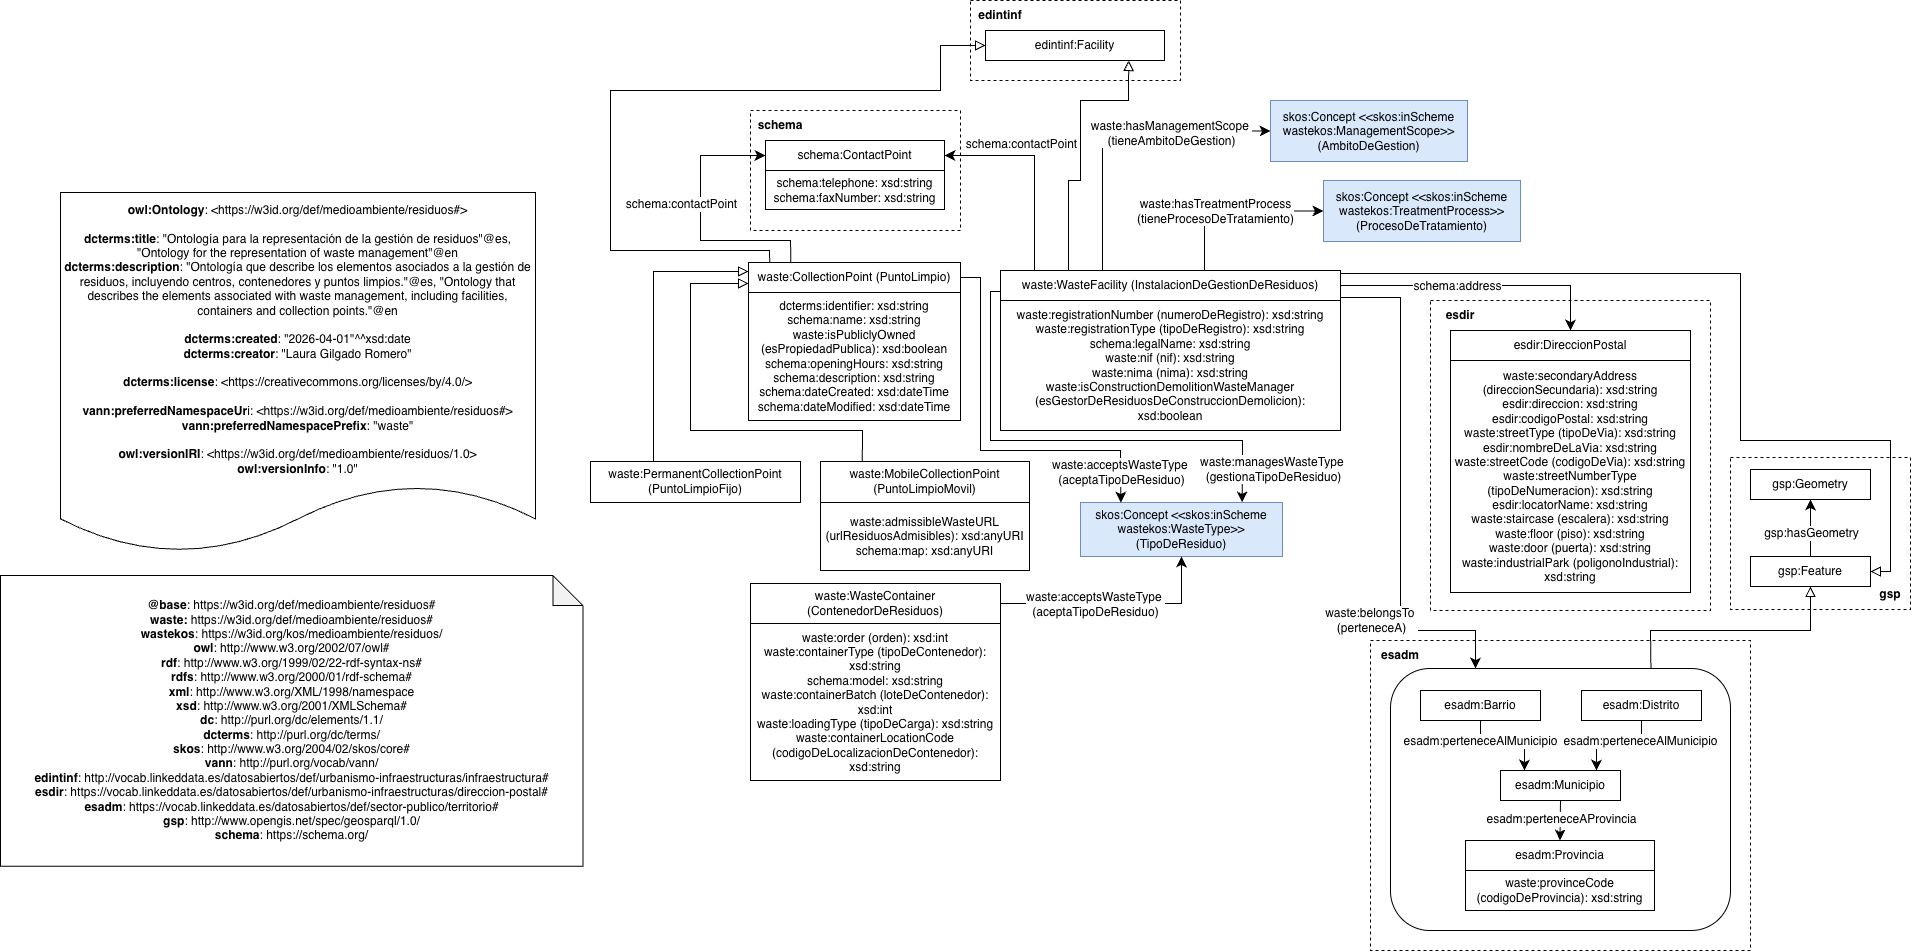
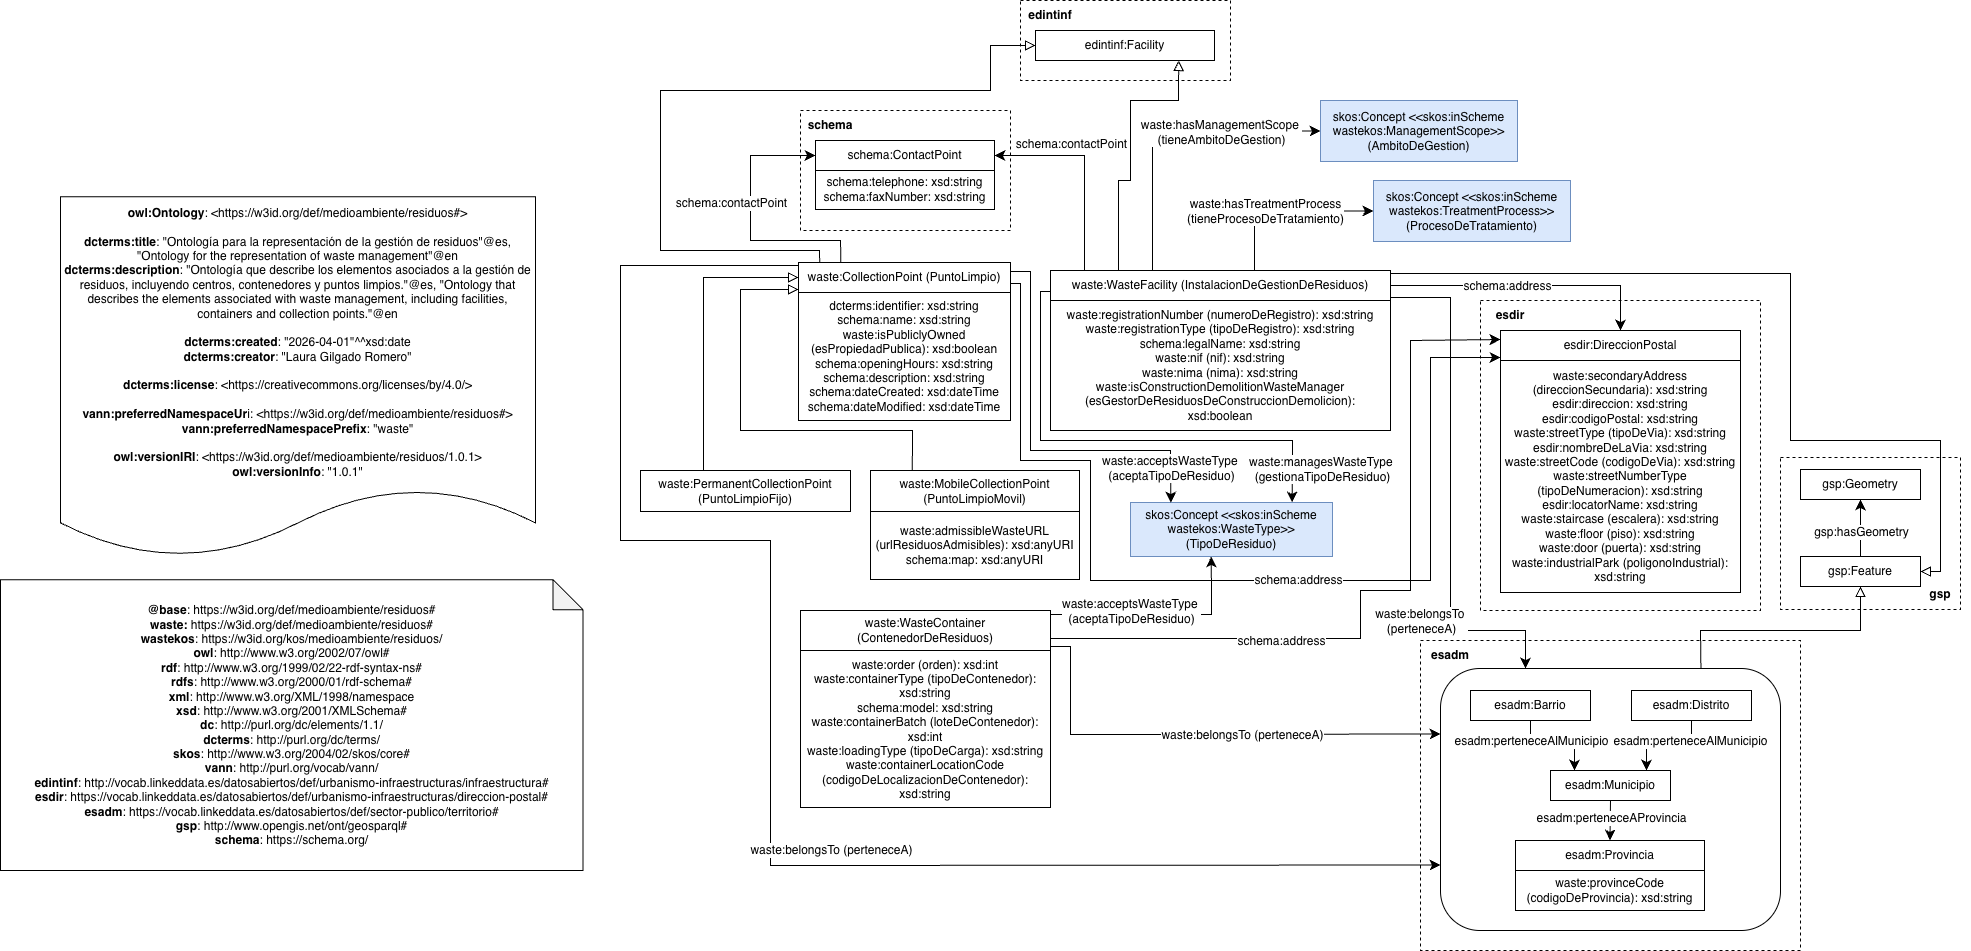
Actualización del diagrama conceptual

diff --git a/documentation/sections/crossref-es.html b/documentation/sections/crossref-es.html
@@ -64,7 +64,7 @@ Esta secci&oacute;n introduce m&aacute;s detalles sobre cada clase y propiedad d
     en dominio de
    </dt>
    <dd>
-    <a href="#acceptsWasteType" title="https://w3id.org/def/medioambiente/residuos#acceptsWasteType">accepts waste type</a> <sup class="type-op" title="Propiedad entre objetos">op</sup>, <a href="#https://schema.org/contactPoint" title="https://schema.org/contactPoint">contact point</a> <sup class="type-op" title="Propiedad entre objetos">op</sup>, <a href="#https://schema.org/dateCreated" title="https://schema.org/dateCreated">date created</a> <sup class="type-dp" title="Propiedad de datos">dp</sup>, <a href="#https://schema.org/dateModified" title="https://schema.org/dateModified">date modified</a> <sup class="type-dp" title="Propiedad de datos">dp</sup>, <a href="#https://schema.org/description" title="https://schema.org/description">description</a> <sup class="type-dp" title="Propiedad de datos">dp</sup>, <a href="#http://purl.org/dc/terms/identifier" title="http://purl.org/dc/terms/identifier">identifier</a> <sup class="type-dp" title="Propiedad de datos">dp</sup>, <a href="#isPubliclyOwned" title="https://w3id.org/def/medioambiente/residuos#isPubliclyOwned">is publicly owned</a> <sup class="type-dp" title="Propiedad de datos">dp</sup>, <a href="#https://schema.org/name" title="https://schema.org/name">name</a> <sup class="type-dp" title="Propiedad de datos">dp</sup>, <a href="#https://schema.org/openingHours" title="https://schema.org/openingHours">opening hours</a> <sup class="type-dp" title="Propiedad de datos">dp</sup>
+    <a href="#acceptsWasteType" title="https://w3id.org/def/medioambiente/residuos#acceptsWasteType">accepts waste type</a> <sup class="type-op" title="Propiedad entre objetos">op</sup>, <a href="#https://schema.org/address" title="https://schema.org/address">address</a> <sup class="type-op" title="Propiedad entre objetos">op</sup>, <a href="#belongsTo" title="https://w3id.org/def/medioambiente/residuos#belongsTo">belongs to</a> <sup class="type-op" title="Propiedad entre objetos">op</sup>, <a href="#https://schema.org/contactPoint" title="https://schema.org/contactPoint">contact point</a> <sup class="type-op" title="Propiedad entre objetos">op</sup>, <a href="#https://schema.org/dateCreated" title="https://schema.org/dateCreated">date created</a> <sup class="type-dp" title="Propiedad de datos">dp</sup>, <a href="#https://schema.org/dateModified" title="https://schema.org/dateModified">date modified</a> <sup class="type-dp" title="Propiedad de datos">dp</sup>, <a href="#https://schema.org/description" title="https://schema.org/description">description</a> <sup class="type-dp" title="Propiedad de datos">dp</sup>, <a href="#http://purl.org/dc/terms/identifier" title="http://purl.org/dc/terms/identifier">identifier</a> <sup class="type-dp" title="Propiedad de datos">dp</sup>, <a href="#isPubliclyOwned" title="https://w3id.org/def/medioambiente/residuos#isPubliclyOwned">is publicly owned</a> <sup class="type-dp" title="Propiedad de datos">dp</sup>, <a href="#https://schema.org/name" title="https://schema.org/name">name</a> <sup class="type-dp" title="Propiedad de datos">dp</sup>, <a href="#https://schema.org/openingHours" title="https://schema.org/openingHours">opening hours</a> <sup class="type-dp" title="Propiedad de datos">dp</sup>
    </dd>
   </dl>
  </div>
@@ -244,7 +244,7 @@ Esta secci&oacute;n introduce m&aacute;s detalles sobre cada clase y propiedad d
     en rango de
    </dt>
    <dd>
-    <a href="#https://vocab.linkeddata.es/datosabiertos/def/sector-publico/territorio#perteneceAlMunicipio" title="https://vocab.linkeddata.es/datosabiertos/def/sector-publico/territorio#perteneceAlMunicipio">pertenece al municipio</a> <sup class="type-op" title="Propiedad entre objetos">op</sup>
+    <a href="#belongsTo" title="https://w3id.org/def/medioambiente/residuos#belongsTo">belongs to</a> <sup class="type-op" title="Propiedad entre objetos">op</sup>, <a href="#https://vocab.linkeddata.es/datosabiertos/def/sector-publico/territorio#perteneceAlMunicipio" title="https://vocab.linkeddata.es/datosabiertos/def/sector-publico/territorio#perteneceAlMunicipio">pertenece al municipio</a> <sup class="type-op" title="Propiedad entre objetos">op</sup>
    </dd>
   </dl>
  </div>
@@ -292,7 +292,7 @@ Esta secci&oacute;n introduce m&aacute;s detalles sobre cada clase y propiedad d
     en dominio de
    </dt>
    <dd>
-    <a href="#acceptsWasteType" title="https://w3id.org/def/medioambiente/residuos#acceptsWasteType">accepts waste type</a> <sup class="type-op" title="Propiedad entre objetos">op</sup>, <a href="#containerBatch" title="https://w3id.org/def/medioambiente/residuos#containerBatch">container batch</a> <sup class="type-dp" title="Propiedad de datos">dp</sup>, <a href="#containerLocationCode" title="https://w3id.org/def/medioambiente/residuos#containerLocationCode">container location code</a> <sup class="type-dp" title="Propiedad de datos">dp</sup>, <a href="#containerType" title="https://w3id.org/def/medioambiente/residuos#containerType">container type</a> <sup class="type-dp" title="Propiedad de datos">dp</sup>, <a href="#loadingType" title="https://w3id.org/def/medioambiente/residuos#loadingType">loading type</a> <sup class="type-dp" title="Propiedad de datos">dp</sup>, <a href="#https://schema.org/model" title="https://schema.org/model">model</a> <sup class="type-dp" title="Propiedad de datos">dp</sup>, <a href="#order" title="https://w3id.org/def/medioambiente/residuos#order">order</a> <sup class="type-dp" title="Propiedad de datos">dp</sup>
+    <a href="#acceptsWasteType" title="https://w3id.org/def/medioambiente/residuos#acceptsWasteType">accepts waste type</a> <sup class="type-op" title="Propiedad entre objetos">op</sup>, <a href="#https://schema.org/address" title="https://schema.org/address">address</a> <sup class="type-op" title="Propiedad entre objetos">op</sup>, <a href="#belongsTo" title="https://w3id.org/def/medioambiente/residuos#belongsTo">belongs to</a> <sup class="type-op" title="Propiedad entre objetos">op</sup>, <a href="#containerBatch" title="https://w3id.org/def/medioambiente/residuos#containerBatch">container batch</a> <sup class="type-dp" title="Propiedad de datos">dp</sup>, <a href="#containerLocationCode" title="https://w3id.org/def/medioambiente/residuos#containerLocationCode">container location code</a> <sup class="type-dp" title="Propiedad de datos">dp</sup>, <a href="#containerType" title="https://w3id.org/def/medioambiente/residuos#containerType">container type</a> <sup class="type-dp" title="Propiedad de datos">dp</sup>, <a href="#loadingType" title="https://w3id.org/def/medioambiente/residuos#loadingType">loading type</a> <sup class="type-dp" title="Propiedad de datos">dp</sup>, <a href="#https://schema.org/model" title="https://schema.org/model">model</a> <sup class="type-dp" title="Propiedad de datos">dp</sup>, <a href="#order" title="https://w3id.org/def/medioambiente/residuos#order">order</a> <sup class="type-dp" title="Propiedad de datos">dp</sup>
    </dd>
   </dl>
  </div>
@@ -361,6 +361,12 @@ Esta secci&oacute;n introduce m&aacute;s detalles sobre cada clase y propiedad d
      dominio
     </dt>
     <dd>
+     <a href="#CollectionPoint" title="https://w3id.org/def/medioambiente/residuos#CollectionPoint">Collection Point</a> <sup class="type-c" title="clase">c</sup>
+    </dd>
+    <dd>
+     <a href="#WasteContainer" title="https://w3id.org/def/medioambiente/residuos#WasteContainer">Waste Container</a> <sup class="type-c" title="clase">c</sup>
+    </dd>
+    <dd>
      <a href="#WasteFacility" title="https://w3id.org/def/medioambiente/residuos#WasteFacility">Waste Facility</a> <sup class="type-c" title="clase">c</sup>
     </dd>
     <dt>
@@ -381,13 +387,19 @@ Esta secci&oacute;n introduce m&aacute;s detalles sobre cada clase y propiedad d
      dominio
     </dt>
     <dd>
+     <a href="#CollectionPoint" title="https://w3id.org/def/medioambiente/residuos#CollectionPoint">Collection Point</a> <sup class="type-c" title="clase">c</sup>
+    </dd>
+    <dd>
+     <a href="#WasteContainer" title="https://w3id.org/def/medioambiente/residuos#WasteContainer">Waste Container</a> <sup class="type-c" title="clase">c</sup>
+    </dd>
+    <dd>
      <a href="#WasteFacility" title="https://w3id.org/def/medioambiente/residuos#WasteFacility">Waste Facility</a> <sup class="type-c" title="clase">c</sup>
     </dd>
     <dt>
      rango
     </dt>
     <dd>
-     <a href="#https://vocab.linkeddata.es/datosabiertos/def/sector-publico/territorio#Barrio" title="https://vocab.linkeddata.es/datosabiertos/def/sector-publico/territorio#Barrio">Barrio</a> <sup class="type-c" title="clase">c</sup> <span class="logic">or</span> <a href="#https://vocab.linkeddata.es/datosabiertos/def/sector-publico/territorio#Distrito" title="https://vocab.linkeddata.es/datosabiertos/def/sector-publico/territorio#Distrito">Distrito</a> <sup class="type-c" title="clase">c</sup>
+     <a href="#https://vocab.linkeddata.es/datosabiertos/def/sector-publico/territorio#Barrio" title="https://vocab.linkeddata.es/datosabiertos/def/sector-publico/territorio#Barrio">Barrio</a> <sup class="type-c" title="clase">c</sup> <span class="logic">or</span> <a href="#https://vocab.linkeddata.es/datosabiertos/def/sector-publico/territorio#Distrito" title="https://vocab.linkeddata.es/datosabiertos/def/sector-publico/territorio#Distrito">Distrito</a> <sup class="type-c" title="clase">c</sup> <span class="logic">or</span> <a href="#https://vocab.linkeddata.es/datosabiertos/def/sector-publico/territorio#Municipio" title="https://vocab.linkeddata.es/datosabiertos/def/sector-publico/territorio#Municipio">Municipio</a> <sup class="type-c" title="clase">c</sup>
     </dd>
    </dl>
   </div>

diff --git a/documentation/sections/crossref-en.html b/documentation/sections/crossref-en.html
@@ -64,7 +64,7 @@ This section provides details for each class and property defined by Ontology fo
     is in domain of
    </dt>
    <dd>
-    <a href="#acceptsWasteType" title="https://w3id.org/def/medioambiente/residuos#acceptsWasteType">accepts waste type</a> <sup class="type-op" title="object property">op</sup>, <a href="#https://schema.org/contactPoint" title="https://schema.org/contactPoint">contact point</a> <sup class="type-op" title="object property">op</sup>, <a href="#https://schema.org/dateCreated" title="https://schema.org/dateCreated">date created</a> <sup class="type-dp" title="data property">dp</sup>, <a href="#https://schema.org/dateModified" title="https://schema.org/dateModified">date modified</a> <sup class="type-dp" title="data property">dp</sup>, <a href="#https://schema.org/description" title="https://schema.org/description">description</a> <sup class="type-dp" title="data property">dp</sup>, <a href="#http://purl.org/dc/terms/identifier" title="http://purl.org/dc/terms/identifier">identifier</a> <sup class="type-dp" title="data property">dp</sup>, <a href="#isPubliclyOwned" title="https://w3id.org/def/medioambiente/residuos#isPubliclyOwned">is publicly owned</a> <sup class="type-dp" title="data property">dp</sup>, <a href="#https://schema.org/name" title="https://schema.org/name">name</a> <sup class="type-dp" title="data property">dp</sup>, <a href="#https://schema.org/openingHours" title="https://schema.org/openingHours">opening hours</a> <sup class="type-dp" title="data property">dp</sup>
+    <a href="#acceptsWasteType" title="https://w3id.org/def/medioambiente/residuos#acceptsWasteType">accepts waste type</a> <sup class="type-op" title="object property">op</sup>, <a href="#https://schema.org/address" title="https://schema.org/address">address</a> <sup class="type-op" title="object property">op</sup>, <a href="#belongsTo" title="https://w3id.org/def/medioambiente/residuos#belongsTo">belongs to</a> <sup class="type-op" title="object property">op</sup>, <a href="#https://schema.org/contactPoint" title="https://schema.org/contactPoint">contact point</a> <sup class="type-op" title="object property">op</sup>, <a href="#https://schema.org/dateCreated" title="https://schema.org/dateCreated">date created</a> <sup class="type-dp" title="data property">dp</sup>, <a href="#https://schema.org/dateModified" title="https://schema.org/dateModified">date modified</a> <sup class="type-dp" title="data property">dp</sup>, <a href="#https://schema.org/description" title="https://schema.org/description">description</a> <sup class="type-dp" title="data property">dp</sup>, <a href="#http://purl.org/dc/terms/identifier" title="http://purl.org/dc/terms/identifier">identifier</a> <sup class="type-dp" title="data property">dp</sup>, <a href="#isPubliclyOwned" title="https://w3id.org/def/medioambiente/residuos#isPubliclyOwned">is publicly owned</a> <sup class="type-dp" title="data property">dp</sup>, <a href="#https://schema.org/name" title="https://schema.org/name">name</a> <sup class="type-dp" title="data property">dp</sup>, <a href="#https://schema.org/openingHours" title="https://schema.org/openingHours">opening hours</a> <sup class="type-dp" title="data property">dp</sup>
    </dd>
   </dl>
  </div>
@@ -244,7 +244,7 @@ This section provides details for each class and property defined by Ontology fo
     is in range of
    </dt>
    <dd>
-    <a href="#https://vocab.linkeddata.es/datosabiertos/def/sector-publico/territorio#perteneceAlMunicipio" title="https://vocab.linkeddata.es/datosabiertos/def/sector-publico/territorio#perteneceAlMunicipio">pertenece al municipio</a> <sup class="type-op" title="object property">op</sup>
+    <a href="#belongsTo" title="https://w3id.org/def/medioambiente/residuos#belongsTo">belongs to</a> <sup class="type-op" title="object property">op</sup>, <a href="#https://vocab.linkeddata.es/datosabiertos/def/sector-publico/territorio#perteneceAlMunicipio" title="https://vocab.linkeddata.es/datosabiertos/def/sector-publico/territorio#perteneceAlMunicipio">pertenece al municipio</a> <sup class="type-op" title="object property">op</sup>
    </dd>
   </dl>
  </div>
@@ -292,7 +292,7 @@ This section provides details for each class and property defined by Ontology fo
     is in domain of
    </dt>
    <dd>
-    <a href="#acceptsWasteType" title="https://w3id.org/def/medioambiente/residuos#acceptsWasteType">accepts waste type</a> <sup class="type-op" title="object property">op</sup>, <a href="#containerBatch" title="https://w3id.org/def/medioambiente/residuos#containerBatch">container batch</a> <sup class="type-dp" title="data property">dp</sup>, <a href="#containerLocationCode" title="https://w3id.org/def/medioambiente/residuos#containerLocationCode">container location code</a> <sup class="type-dp" title="data property">dp</sup>, <a href="#containerType" title="https://w3id.org/def/medioambiente/residuos#containerType">container type</a> <sup class="type-dp" title="data property">dp</sup>, <a href="#loadingType" title="https://w3id.org/def/medioambiente/residuos#loadingType">loading type</a> <sup class="type-dp" title="data property">dp</sup>, <a href="#https://schema.org/model" title="https://schema.org/model">model</a> <sup class="type-dp" title="data property">dp</sup>, <a href="#order" title="https://w3id.org/def/medioambiente/residuos#order">order</a> <sup class="type-dp" title="data property">dp</sup>
+    <a href="#acceptsWasteType" title="https://w3id.org/def/medioambiente/residuos#acceptsWasteType">accepts waste type</a> <sup class="type-op" title="object property">op</sup>, <a href="#https://schema.org/address" title="https://schema.org/address">address</a> <sup class="type-op" title="object property">op</sup>, <a href="#belongsTo" title="https://w3id.org/def/medioambiente/residuos#belongsTo">belongs to</a> <sup class="type-op" title="object property">op</sup>, <a href="#containerBatch" title="https://w3id.org/def/medioambiente/residuos#containerBatch">container batch</a> <sup class="type-dp" title="data property">dp</sup>, <a href="#containerLocationCode" title="https://w3id.org/def/medioambiente/residuos#containerLocationCode">container location code</a> <sup class="type-dp" title="data property">dp</sup>, <a href="#containerType" title="https://w3id.org/def/medioambiente/residuos#containerType">container type</a> <sup class="type-dp" title="data property">dp</sup>, <a href="#loadingType" title="https://w3id.org/def/medioambiente/residuos#loadingType">loading type</a> <sup class="type-dp" title="data property">dp</sup>, <a href="#https://schema.org/model" title="https://schema.org/model">model</a> <sup class="type-dp" title="data property">dp</sup>, <a href="#order" title="https://w3id.org/def/medioambiente/residuos#order">order</a> <sup class="type-dp" title="data property">dp</sup>
    </dd>
   </dl>
  </div>
@@ -361,6 +361,12 @@ This section provides details for each class and property defined by Ontology fo
      has domain
     </dt>
     <dd>
+     <a href="#CollectionPoint" title="https://w3id.org/def/medioambiente/residuos#CollectionPoint">Collection Point</a> <sup class="type-c" title="class">c</sup>
+    </dd>
+    <dd>
+     <a href="#WasteContainer" title="https://w3id.org/def/medioambiente/residuos#WasteContainer">Waste Container</a> <sup class="type-c" title="class">c</sup>
+    </dd>
+    <dd>
      <a href="#WasteFacility" title="https://w3id.org/def/medioambiente/residuos#WasteFacility">Waste Facility</a> <sup class="type-c" title="class">c</sup>
     </dd>
     <dt>
@@ -381,13 +387,19 @@ This section provides details for each class and property defined by Ontology fo
      has domain
     </dt>
     <dd>
+     <a href="#CollectionPoint" title="https://w3id.org/def/medioambiente/residuos#CollectionPoint">Collection Point</a> <sup class="type-c" title="class">c</sup>
+    </dd>
+    <dd>
+     <a href="#WasteContainer" title="https://w3id.org/def/medioambiente/residuos#WasteContainer">Waste Container</a> <sup class="type-c" title="class">c</sup>
+    </dd>
+    <dd>
      <a href="#WasteFacility" title="https://w3id.org/def/medioambiente/residuos#WasteFacility">Waste Facility</a> <sup class="type-c" title="class">c</sup>
     </dd>
     <dt>
      has range
     </dt>
     <dd>
-     <a href="#https://vocab.linkeddata.es/datosabiertos/def/sector-publico/territorio#Barrio" title="https://vocab.linkeddata.es/datosabiertos/def/sector-publico/territorio#Barrio">Barrio</a> <sup class="type-c" title="class">c</sup> <span class="logic">or</span> <a href="#https://vocab.linkeddata.es/datosabiertos/def/sector-publico/territorio#Distrito" title="https://vocab.linkeddata.es/datosabiertos/def/sector-publico/territorio#Distrito">Distrito</a> <sup class="type-c" title="class">c</sup>
+     <a href="#https://vocab.linkeddata.es/datosabiertos/def/sector-publico/territorio#Barrio" title="https://vocab.linkeddata.es/datosabiertos/def/sector-publico/territorio#Barrio">Barrio</a> <sup class="type-c" title="class">c</sup> <span class="logic">or</span> <a href="#https://vocab.linkeddata.es/datosabiertos/def/sector-publico/territorio#Distrito" title="https://vocab.linkeddata.es/datosabiertos/def/sector-publico/territorio#Distrito">Distrito</a> <sup class="type-c" title="class">c</sup> <span class="logic">or</span> <a href="#https://vocab.linkeddata.es/datosabiertos/def/sector-publico/territorio#Municipio" title="https://vocab.linkeddata.es/datosabiertos/def/sector-publico/territorio#Municipio">Municipio</a> <sup class="type-c" title="class">c</sup>
     </dd>
    </dl>
   </div>
